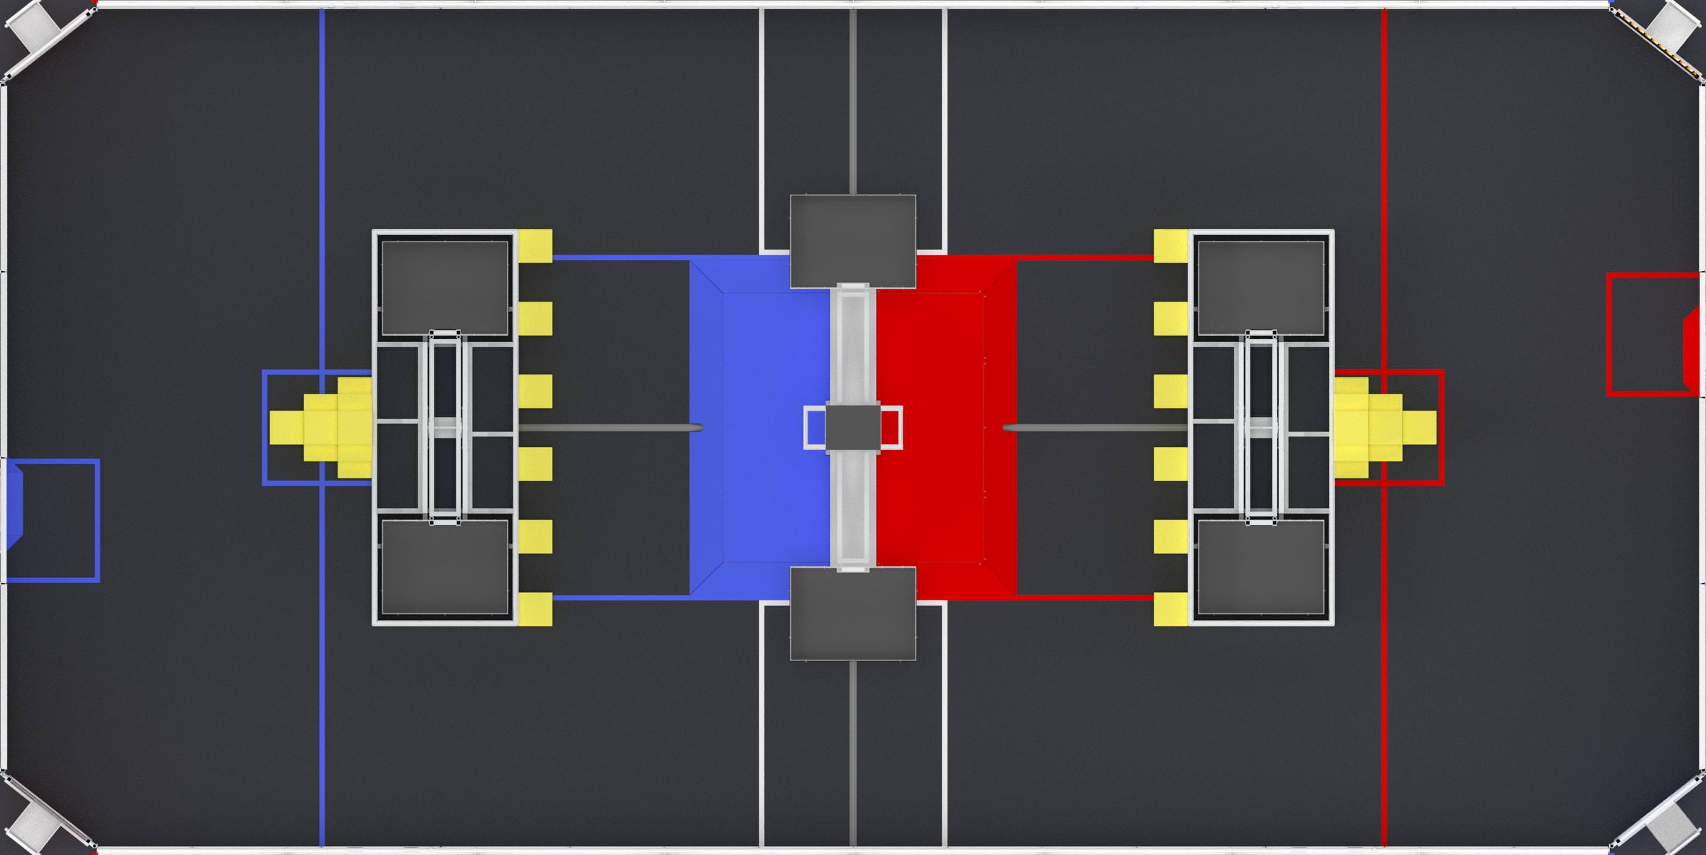
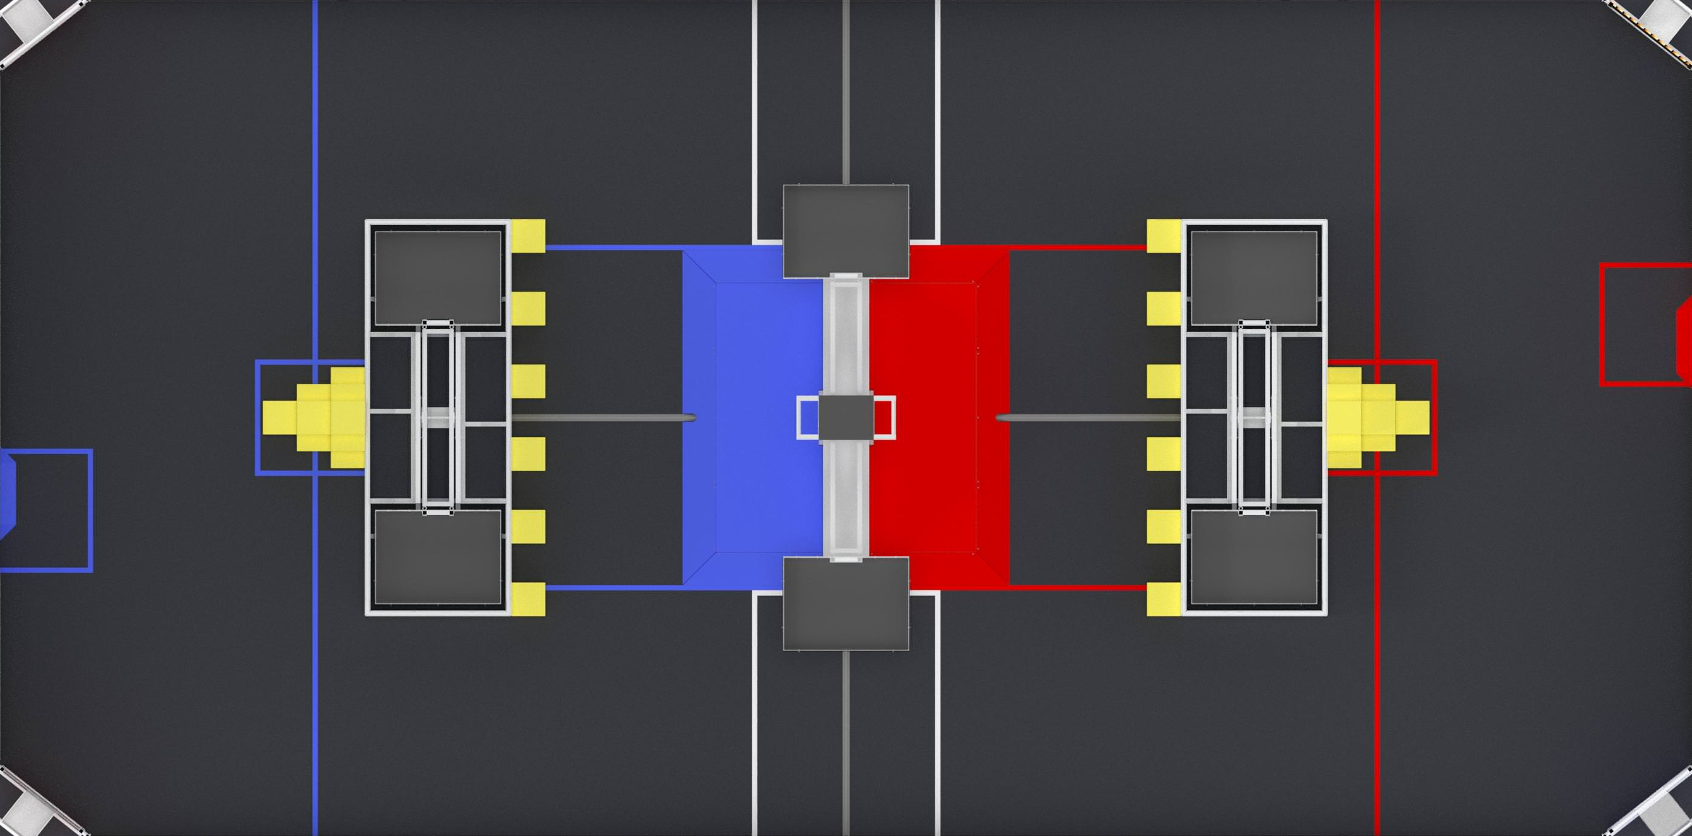
Fix field constants and field drawing.

diff --git a/cheesy_path/script.js b/cheesy_path/script.js
@@ -1,8 +1,8 @@
 var waypoints = [];
 var ctx;
-var width = 1656; //pixels
-var height = 823; //pixels
-var fieldWidth = 652; // in inches
+var width = 1692; //pixels
+var height = 836; //pixels
+var fieldWidth = 648; // in inches
 var fieldHeight = 324; // in inches
 var robotWidth = 30.75;
 var robotHeight = 35.25;
